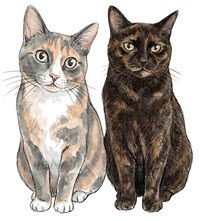
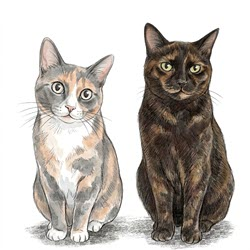
updates mk2

diff --git a/docs/_assets/stylesheets/custom.css b/docs/_assets/stylesheets/custom.css
@@ -1,1 +1,1 @@
-:root{--md-primary-fg-color: #1d3b55;--md-primary-fg-color--light: #5ca8e8;--md-primary-fg-color--dark: #0b1c2b;--md-primary-bg-color: #f4f4f6;--md-primary-bg-color--light: #fcfcfd;--md-accent-fg-color: #393f4c;--md-accent-fg-color--transparent: #f0f1f1;--md-accent-bg-color: #24272f;--md-accent-bg-color--light: #f0f1f1}.admonition p:not(.admonition-title){font-size:1.1em}.md-header .md-header__title{margin-left:.6rem}.md-header .md-header__name h1{font-size:1.2em;font-weight:normal}.md-header .md-header__name p{font-style:italic;font-weight:normal;font-size:.8em}.md-main h1{margin:0}.md-main h1+p{margin-top:.2em}.md-nav--primary .md-nav__title{display:flex;align-items:center;padding:0 0 0 20px;height:auto}.md-nav--primary .md-nav__list .md-nav__title{padding:3rem .8rem .2rem}.md-nav--primary .md-nav__item--section{margin-top:0}.md-nav--primary .md-nav__item--nested>.md-nav__link{font-size:1.3em}.md-nav__title[for=__drawer],.md-nav--primary>.md-nav__list>.md-nav__item--active>label{display:none}.md-nav__link{border-left:3px solid rgba(0,0,0,0);padding-left:3px}.md-nav__link.md-nav__link--active,.md-nav__link[for]:focus,.md-nav__link[for]:hover,.md-nav__link[href]:focus,.md-nav__link[href]:hover{color:var(--md-typeset-a-color);border-color:var(--md-typeset-a-color)}.md-typeset .cards ul{list-style-type:none;margin:0}.md-typeset .cards ul li{display:block;margin:0 0 2em 0;clear:both;overflow:hidden;padding-bottom:15px}.md-typeset .cards ul li h2{margin-top:0}.md-typeset .cards ul li img{width:400px;height:250px;-o-object-fit:cover;object-fit:cover;border-radius:7px;box-shadow:2px 3px 5px 0 rgba(0,0,0,.4);float:left;margin-right:2em}.chip-feature{display:inline-block;background:var(--md-accent-fg-color);color:#fff;padding:2px 16px;border-radius:20px;font-weight:normal;letter-spacing:1px;margin-bottom:5px}.chip-feature.design{background:#006400}.chip-feature.dev{background:#00008b}.chip-feature.warning{background:darkred}strong.chip-feature{font-size:.9em}.md-typeset blockquote{margin:2em 0 0 0}.md-typeset blockquote p{margin:0}.md-typeset blockquote+p{margin:.5em 0 0 16px}.md-typeset .float-image{float:left;width:160px;height:auto;margin:0 1.5rem 1rem 0}.md-typeset .float-clear{clear:both}
+:root{--md-primary-fg-color: #1d3b55;--md-primary-fg-color--light: #5ca8e8;--md-primary-fg-color--dark: #0b1c2b;--md-primary-bg-color: #f4f4f6;--md-primary-bg-color--light: #fcfcfd;--md-accent-fg-color: #393f4c;--md-accent-fg-color--transparent: #f0f1f1;--md-accent-bg-color: #24272f;--md-accent-bg-color--light: #f0f1f1}.admonition p:not(.admonition-title){font-size:1.1em}.md-header .md-header__title{margin-left:.6rem}.md-header .md-header__name h1{font-size:1.2em;font-weight:normal}.md-header .md-header__name p{font-style:italic;font-weight:normal;font-size:.8em}.md-main h1{margin:0}.md-main h1+p{margin-top:.2em}.md-nav--primary .md-nav__title{display:flex;align-items:center;padding:0 0 0 20px;height:auto}.md-nav--primary .md-nav__list .md-nav__title{padding:3rem .8rem .2rem}.md-nav--primary .md-nav__item--section{margin-top:0}.md-nav--primary .md-nav__item--nested>.md-nav__link{font-size:1.3em}.md-nav__title[for=__drawer],.md-nav--primary>.md-nav__list>.md-nav__item--active>label{display:none}.md-nav__link{border-left:3px solid rgba(0,0,0,0);padding-left:3px}.md-nav__link.md-nav__link--active,.md-nav__link[for]:focus,.md-nav__link[for]:hover,.md-nav__link[href]:focus,.md-nav__link[href]:hover{color:var(--md-typeset-a-color);border-color:var(--md-typeset-a-color)}.md-typeset .cards ul{list-style-type:none;margin:0}.md-typeset .cards ul li{display:block;margin:0 0 2em 0;clear:both;overflow:hidden;padding-bottom:15px}.md-typeset .cards ul li h2{margin-top:0}.md-typeset .cards ul li img{width:400px;height:250px;-o-object-fit:cover;object-fit:cover;border-radius:7px;box-shadow:2px 3px 5px 0 rgba(0,0,0,.4);float:left;margin-right:2em}.chip-feature{display:inline-block;background:var(--md-accent-fg-color);color:#fff;padding:2px 16px;border-radius:20px;font-weight:normal;letter-spacing:1px;margin-bottom:5px}.chip-feature.design{background:#006400}.chip-feature.dev{background:#00008b}.chip-feature.warning{background:darkred}strong.chip-feature{font-size:.9em}.md-typeset blockquote{margin:2em 0 0 0}.md-typeset blockquote p{margin:0}.md-typeset blockquote+p{margin:.5em 0 0 16px}.md-typeset .float-image{float:left;height:auto;margin:0 1.5rem 1rem 0}.md-typeset .float-clear{clear:both}

diff --git a/docs/_assets/stylesheets/custom.scss b/docs/_assets/stylesheets/custom.scss
@@ -199,7 +199,6 @@ strong.chip-feature {
 .md-typeset {
     .float-image {
         float: left;
-        width: 160px;
         height: auto;
         margin: 0 1.5rem 1rem 0;
     }

diff --git a/docs/about.md b/docs/about.md
@@ -9,8 +9,6 @@ glightbox: false
 
 ## Kate. Defined.
 
-![Kate](./_assets/images/digitalkate.png)  
-
 Hi! I'm Kate.
 
 I work as full stack designer with a focus on enterprise applications, particularly for the Department of Defense.
